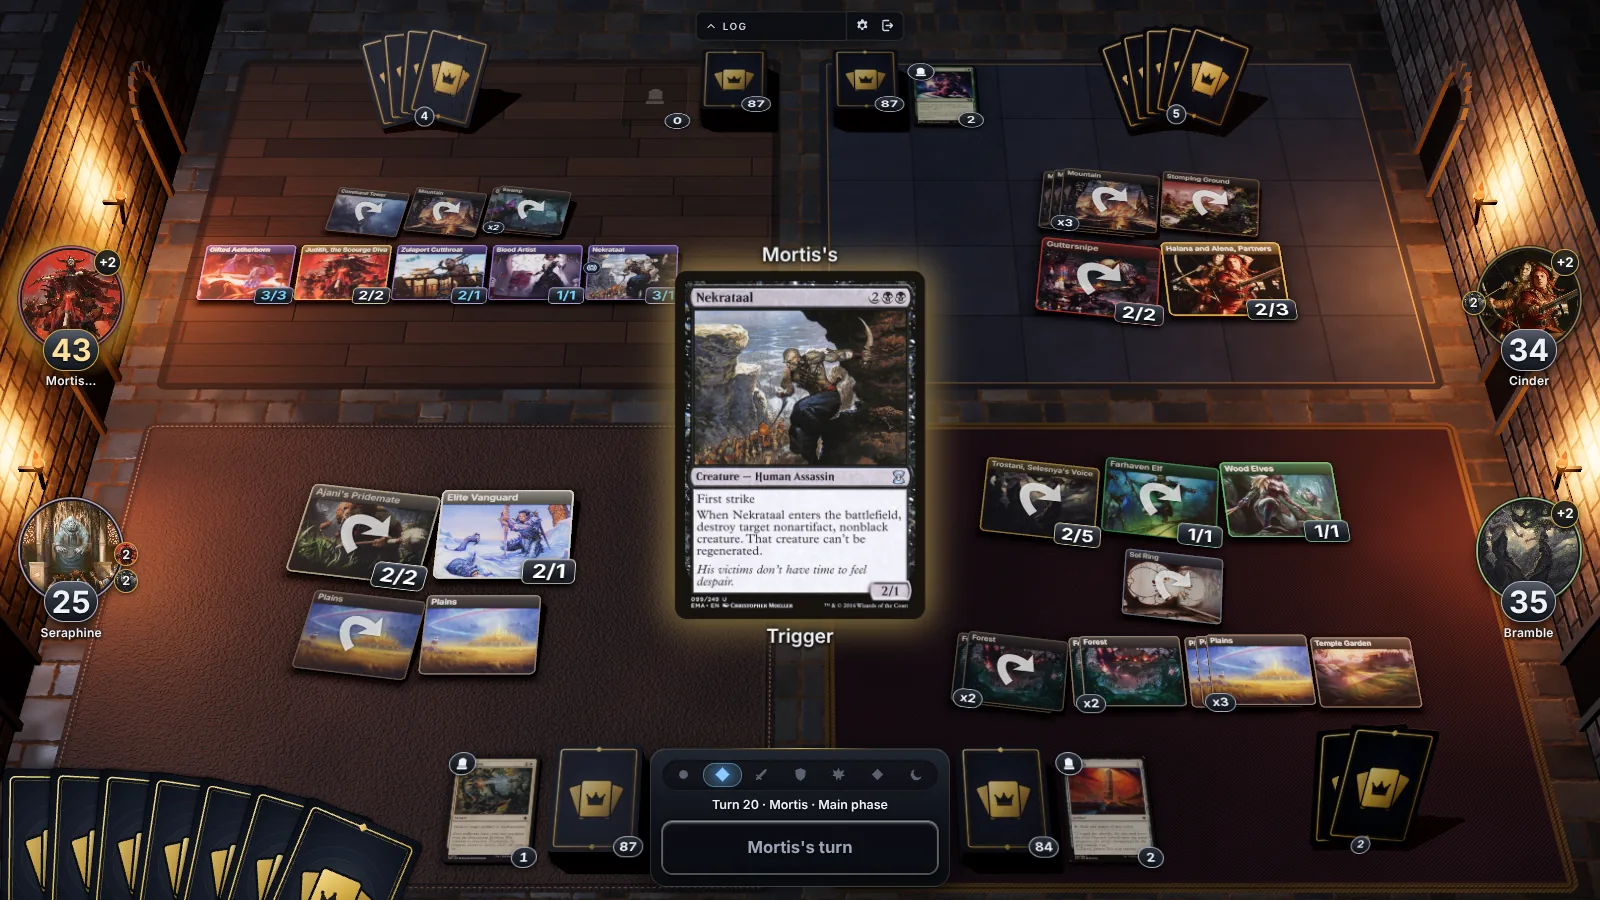
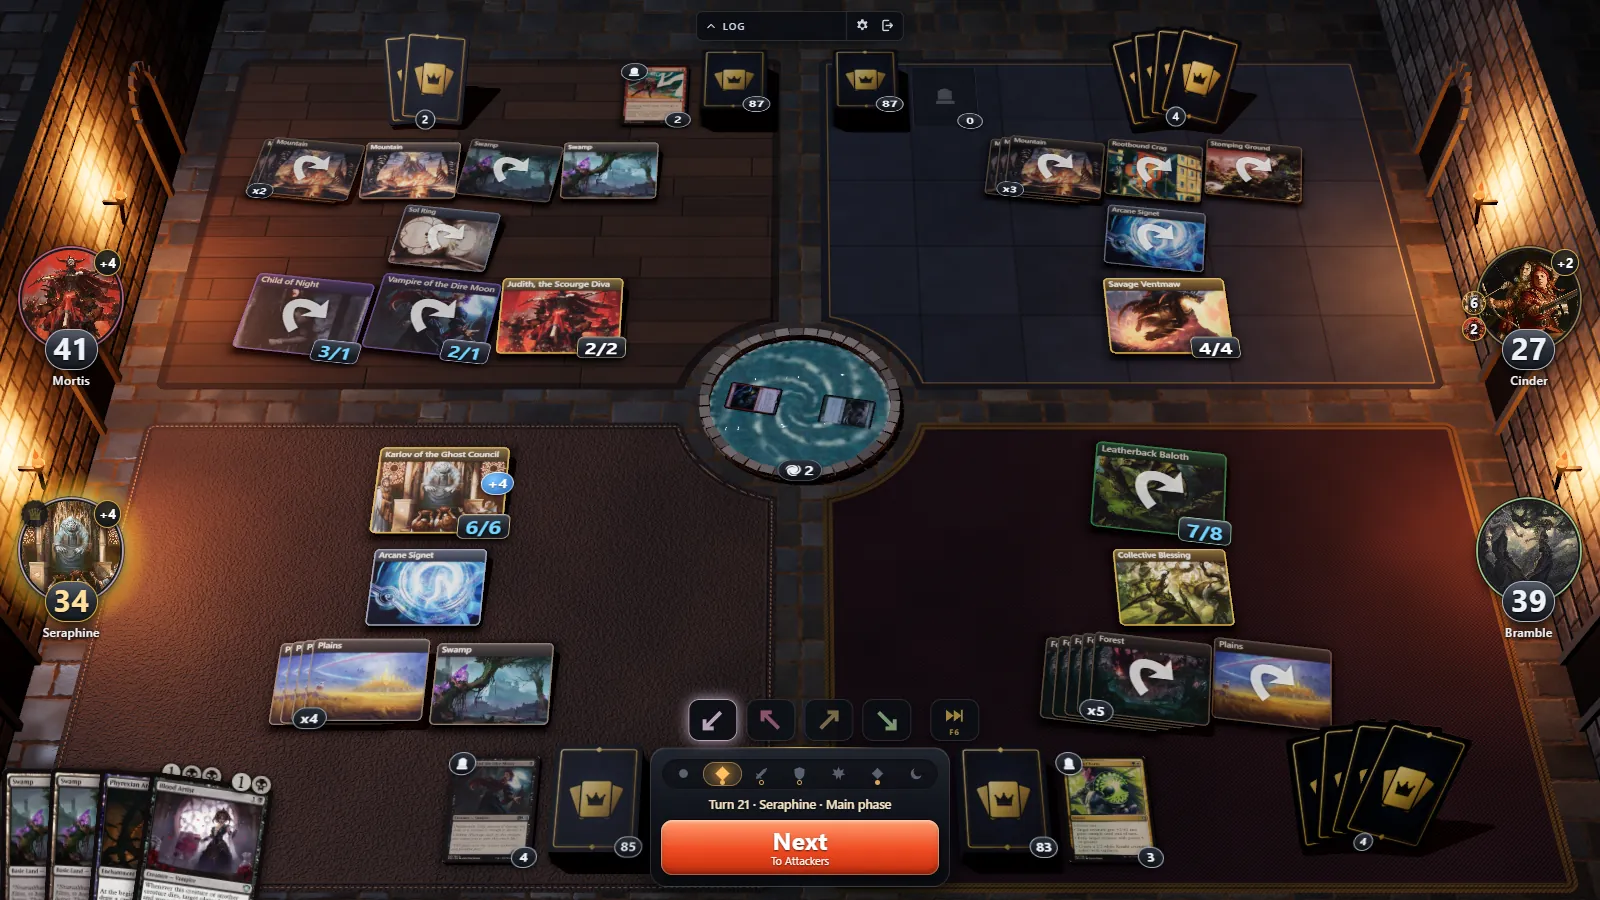
README: current for v0.6.0, with new screenshots
Retakes every screenshot on Windows at 1600x900, so they show the
game's real font (Segoe UI) and the current UI: the exile whirlpool,
the pass-the-turn button and F6 in the Hotkeys window. Adds two shots
to the gallery: casting a spell, and the stack's target arrows.

The text now covers EDHREC's top cards and commanders, F6, flipping
double-faced cards and npm run launcher, and corrects the bot line:
they do hold priority for the Thassa's Oracle win.

diff --git a/README.md b/README.md
@@ -5,7 +5,7 @@ table. Two to four players: you play one deck, and bots or friends play the othe
 
 This is an unofficial fan prototype. Expect rough edges.
 
-![A four-player game mid-way through turn 20: each seat's battlefield on its own mat, life totals on the portraits, and a trigger shown full size in the middle](docs/images/table.webp)
+![A four-player game on turn 21: each seat's battlefield on its own mat, life totals on the portraits, two exiled cards swirling in the well in the middle, and the Next button with the seat arrows and the pass-the-turn button above it](docs/images/table.webp)
 
 ## Highlights
 
@@ -14,8 +14,10 @@ This is an unofficial fan prototype. Expect rough edges.
 - **Play your own deck.** Paste a list from Arena, Moxfield, Archidekt, MTGO, TappedOut
   or plain text. Cards the game doesn't know are fetched from
   [Scryfall](https://scryfall.com) and read from their rules text.
-- **A 3D table** in a torch-lit hall: each seat plays on its own mat, the shared exile is
-  the well in the middle, and any card can be hovered to read it full size.
+- **EDHREC's top 100 cards and top 100 commanders** from the past year are all playable,
+  Atraxa, Kinnan, Korvold, Muldrotha and The Ur-Dragon among them.
+- **A 3D table** in a torch-lit hall: each seat plays on its own mat, exiled cards swirl
+  in the well in the middle, and any card can be hovered to read it full size.
 - **Bots** fill any empty seat, so you can play alone, or **Watch the bots play** a whole
   game of four.
 - **Friends** can share your screen, or join from their own computer with a code.
@@ -28,8 +30,10 @@ This is an unofficial fan prototype. Expect rough edges.
 | --- | --- |
 | ![The menu: eight built-in decks with their art, and the table settings on the right](docs/images/menu.webp) | ![Pasting a deck list: 100 cards read, the commander picked, ready to save](docs/images/paste-deck.webp) |
 | **The menu.** Pick a deck and who sits in the other seats. | **Paste a deck list** from Arena, Moxfield, Archidekt, MTGO or TappedOut. |
-| ![The opening hand of seven cards, with Mulligan and Keep buttons](docs/images/mulligan.webp) | ![The Hotkeys window listing every keyboard and mouse control](docs/images/hotkeys.webp) |
-| **Keep or mulligan** your opening hand. Your first mulligan is free. | **Hotkeys**, on the gear menu, lists every control. |
+| ![The opening hand of seven cards, with Mulligan and Keep buttons](docs/images/mulligan.webp) | ![Casting Manalith: the card in the middle, "Pay 3 to cast Manalith", the lands that will be tapped glowing, and Cancel and Pay buttons](docs/images/cast.webp) |
+| **Keep or mulligan** your opening hand. Your first mulligan is free. | **Cast a spell** by dragging it onto the table. The lands auto-pay will tap glow: press **Pay**. |
+| ![Two abilities on the stack; hovering the lower one, Acidic Slime's trigger, draws a dotted arrow to the Sol Ring it targets](docs/images/stack.webp) | ![The Hotkeys window listing every keyboard and mouse control](docs/images/hotkeys.webp) |
+| **The stack** sits in the middle. Hover a spell or ability to see what it targets. | **Hotkeys**, on the gear menu, lists every control. |
 
 ## Getting the game
 
@@ -53,10 +57,13 @@ has it). On a slow machine, add `?quality=low` to the address to drop the shadow
    (shown in yellow), and press **Pay**. Mana is tapped for you.
 5. Press **Space** for the big button (Next, Resolve, Pass), **Esc** to cancel, and
    **Ctrl+Z** to take back the last step that can be undone.
+6. Press **F6** (or the gold ⏭ button) to pass priority until the turn ends, as on MTGO.
+   Attackers, blockers and choices are still yours.
 
 To cast your commander, click the **crown** on your portrait. Hover any card to see it
-full size, or right-click it for a bigger view that stays up. The gear at the top holds
-bot speed, sound and music, and the **Hotkeys** window with every control.
+full size, or right-click it for a bigger view that stays up; a double-faced card has a
+**Front** / **Back** pill to turn it over. The gear at the top holds bot speed, sound and
+music, and the **Hotkeys** window with every control.
 
 The full guide, covering combat, the stack, stops, special cards and every control, is in
 **[How to play](docs/how-to-play.md)**.
@@ -79,8 +86,8 @@ The biggest gaps are listed below. The full list is in
 - Some cards can't be read yet. The paste screen tells you which: swap them out, or play
   them as plain cards without their rules text, clearly marked. Each one is noted so it
   can be added later.
-- Bots play a simple game. They skip some combo lines and never hold priority to
-  respond to their own spells.
+- Bots play a simple game. They know a few combos (Thassa's Oracle with Demonic
+  Consultation, for one) but skip loops like Underworld Breach.
 - A few rules are simplified, mostly ones that rarely come up in play.
 
 ## For developers
@@ -96,6 +103,7 @@ npm run test:games     # only the whole games (tests/simulation/ and a few other
 npm run build          # type-check and build into dist/
 npm run build:single   # one self-contained dist-single/index.html to share
 npm run build:exe      # the Windows program, release/ArenaEDH.exe
+npm run launcher       # run the Windows program's launcher from source against dist/
 npm run fetch-cards    # pull card data from Scryfall after editing decklists.json
 npm run parse-report   # which cards the Oracle text parser can script, and why not the rest
 npm run fetch-corpus   # refresh the parse report's corpus: the 600 most-played Commander cards
